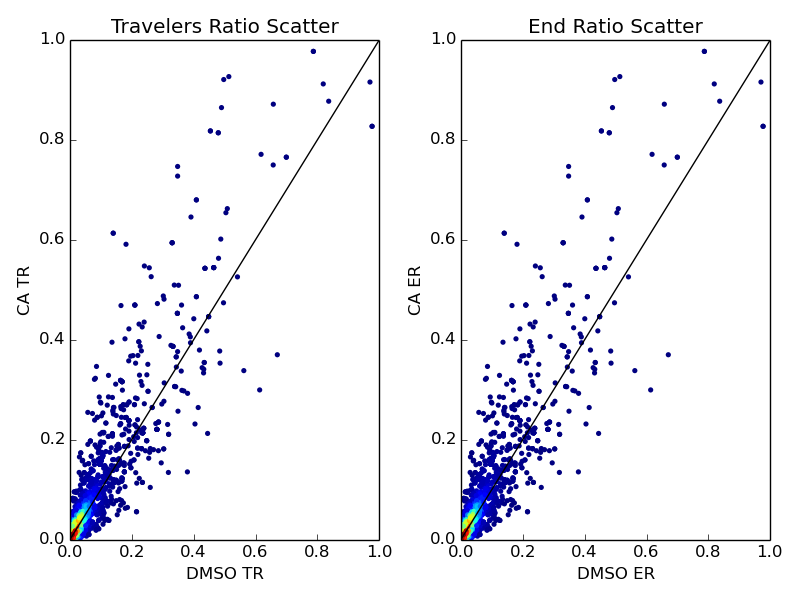
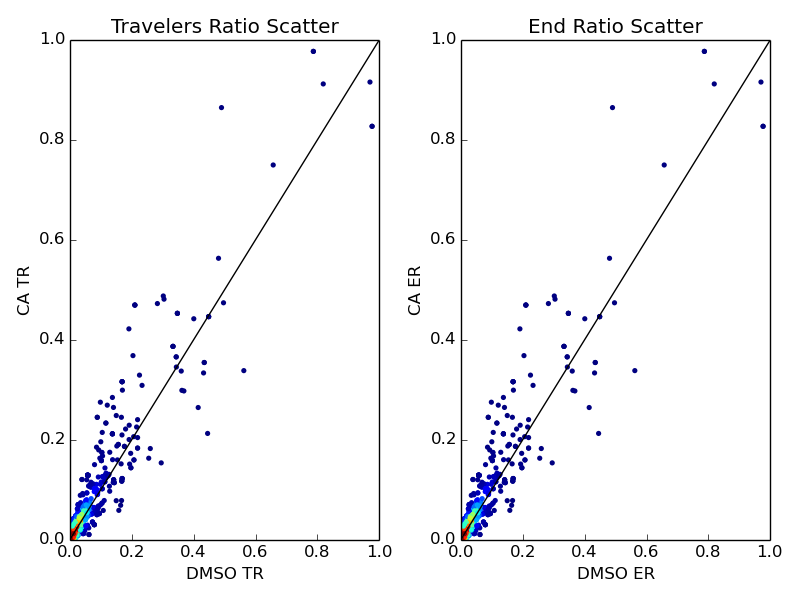
updates

diff --git a/src/master_writer.py b/src/master_writer.py
@@ -137,9 +137,9 @@ def run(DMSOgenes,DMSOTSS,DMSOEND,CAgenes,CATSS,CAEND,filedir,figuredir):
     ax1.set_ylim([0, 1])
     ax1.plot([0,1],color='k')
     ax2 = F3.add_subplot(1,2,2)
-    xy = np.vstack([TRx,TRy])
+    xy = np.vstack([ERx,ERy])
     z = gaussian_kde(xy)(xy)
-    ax2.scatter(TRx,TRy,c=z,edgecolor="",s=14)
+    ax2.scatter(ERx,ERy,c=z,edgecolor="",s=14)
     ax2.set_title('End Ratio Scatter')
     ax2.set_ylabel('CA ER')
     ax2.set_xlabel('DMSO ER')
